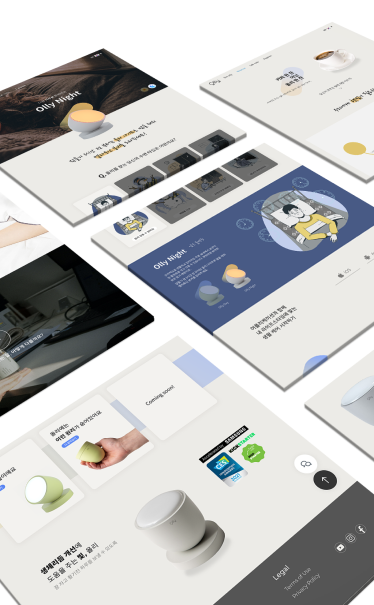
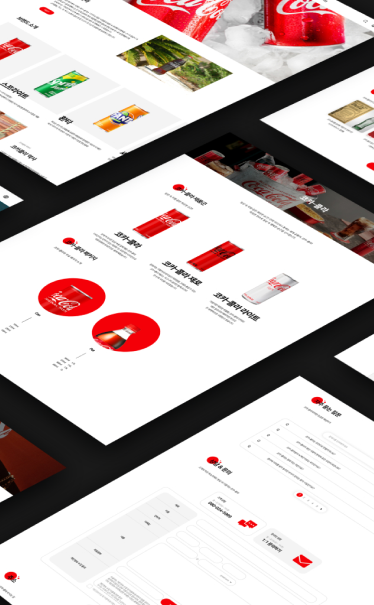
06.21

diff --git a/index.html b/index.html
@@ -81,7 +81,7 @@
         <div class="inner">
           <div class="design-info">
             <p>2024</p>
-            <h2 data-splitting><b>UX</b> designer</h2>
+            <h2><b>UX</b> designer</h2>
             <strong><a href="mailto:k.eunso1027@gmail.com">+ k.eunso1027@gmail.com</a></strong>
           </div>
 
@@ -199,10 +199,10 @@
                       <img src="./img/project-pic-03.png" alt="slide3" /></figure
                   ></a>
                   <div class="slide-info">
-                    <strong class="category">microsite design</strong>
+                    <strong class="category">app design</strong>
                     <div class="project-title">
-                      <h4>COCO microsite design</h4>
-                      <div class="date">2024.03</div>
+                      <h4>what should i do today</h4>
+                      <div class="date">2024.04</div>
                     </div>
                   </div>
                 </div>
@@ -214,10 +214,10 @@
                       <img src="./img/project-pic-04.png" alt="slide4" /></figure
                   ></a>
                   <div class="slide-info">
-                    <strong class="category">ux design</strong>
+                    <strong class="category">microsite design</strong>
                     <div class="project-title">
-                      <h4>haagendazs web redesign</h4>
-                      <div class="date">2024.02</div>
+                      <h4>COCO microsite design</h4>
+                      <div class="date">2024.03</div>
                     </div>
                   </div>
                 </div>
@@ -229,10 +229,10 @@
                       <img src="./img/project-pic-05.png" alt="slide5" /></figure
                   ></a>
                   <div class="slide-info">
-                    <strong class="category">page design</strong>
+                    <strong class="category">ux design</strong>
                     <div class="project-title">
-                      <h4>viage product detail page</h4>
-                      <div class="date">2023.03</div>
+                      <h4>haagendazs web redesign</h4>
+                      <div class="date">2024.02</div>
                     </div>
                   </div>
                 </div>
@@ -246,7 +246,7 @@
                   <div class="slide-info">
                     <strong class="category">page design</strong>
                     <div class="project-title">
-                      <h4>kimpop app detail page</h4>
+                      <h4>viage product detail page</h4>
                       <div class="date">2023.03</div>
                     </div>
                   </div>
@@ -261,8 +261,8 @@
                   <div class="slide-info">
                     <strong class="category">page design</strong>
                     <div class="project-title">
-                      <h4>urban miner product page</h4>
-                      <div class="date">2023.02</div>
+                      <h4>kimpop app detail page</h4>
+                      <div class="date">2023.03</div>
                     </div>
                   </div>
                 </div>
@@ -276,17 +276,32 @@
                   <div class="slide-info">
                     <strong class="category">page design</strong>
                     <div class="project-title">
-                      <h4>festival on app detail page</h4>
-                      <div class="date">2022.12</div>
+                      <h4>urban miner product page</h4>
+                      <div class="date">2023.02</div>
                     </div>
                   </div>
                 </div>
 
                 <!-- Slides9 -->
                 <div class="swiper-slide">
-                  <a href="https://www.behance.net/gallery/154153447/Medicpet_-"
+                  <a href="#"
                     ><figure>
                       <img src="./img/project-pic-09.png" alt="slide9" /></figure
+                  ></a>
+                  <div class="slide-info">
+                    <strong class="category">page design</strong>
+                    <div class="project-title">
+                      <h4>festival on app detail page</h4>
+                      <div class="date">2022.12</div>
+                    </div>
+                  </div>
+                </div>
+
+                <!-- Slides10 -->
+                <div class="swiper-slide">
+                  <a href="https://www.behance.net/gallery/154153447/Medicpet_-"
+                    ><figure>
+                      <img src="./img/project-pic-10.png" alt="slide10" /></figure
                   ></a>
                   <div class="slide-info">
                     <strong class="category">ux design</strong>
@@ -297,11 +312,11 @@
                   </div>
                 </div>
 
-                <!-- Slides10 -->
+                <!-- Slides11 -->
                 <div class="swiper-slide">
                   <a href="https://www.behance.net/gallery/154244789/Cocacola-Korea_Website-Virtual-Renewal-Project"
                     ><figure>
-                      <img src="./img/project-pic-10.png" alt="slide10" /></figure
+                      <img src="./img/project-pic-11.png" alt="slide11" /></figure
                   ></a>
                   <div class="slide-info">
                     <strong class="category">ux design</strong>
@@ -312,11 +327,11 @@
                   </div>
                 </div>
 
-                <!-- Slides11 -->
+                <!-- Slides12 -->
                 <div class="swiper-slide">
                   <a href="https://www.behance.net/gallery/134034159/Luple-Redesign"
                     ><figure>
-                      <img src="./img/project-pic-11.png" alt="slide11" /></figure
+                      <img src="./img/project-pic-12.png" alt="slide12" /></figure
                   ></a>
                   <div class="slide-info">
                     <strong class="category">ux design</strong>
@@ -327,11 +342,11 @@
                   </div>
                 </div>
 
-                <!-- Slides12 -->
+                <!-- Slides13 -->
                 <div class="swiper-slide">
                   <a href="https://www.behance.net/gallery/118584939/AdInCar_Car-AR-Advertising-Platform-Service"
                     ><figure>
-                      <img src="./img/project-pic-12.png" alt="slide12" /></figure
+                      <img src="./img/project-pic-13.png" alt="slide13" /></figure
                   ></a>
                   <div class="slide-info">
                     <strong class="category">service design</strong>
@@ -342,11 +357,11 @@
                   </div>
                 </div>
 
-                <!-- Slides13 -->
+                <!-- Slides14 -->
                 <div class="swiper-slide">
                   <a href="https://www.behance.net/gallery/118422639/Sell-We_-"
                     ><figure>
-                      <img src="./img/project-pic-13.png" alt="slide13" /></figure
+                      <img src="./img/project-pic-14.png" alt="slide14" /></figure
                   ></a>
                   <div class="slide-info">
                     <strong class="category">service design</strong>

diff --git a/js/script.js b/js/script.js
@@ -12,9 +12,6 @@ $(function () {
   tl.from('.go-portfolio', { y: -100, autoAlpha: 0 });
   // e: 애니메이션
 
-  //splitting
-  // Splitting();
-
   // 변수저장
   // AOS.init();
   const $btnTop = $('.btn-top');
@@ -66,10 +63,12 @@ $(function () {
     afterLoad: function (anchorLink, index) {
       if (anchorLink === 'section2') {
         // s: about-ani
+        $('.section2 h2').css('opacity', 1);
         // tl.from('.section2 h2', { y: -100, autoAlpha: 0 });
         // tl.from('.section2 .dashboard', { y: -100, autoAlpha: 0 });
       }
       if (anchorLink === 'section3') {
+        $('.section3 h2').css('opacity', 1);
         // s: project-ani
         // tl.from('.section3 h2', { y: -100, autoAlpha: 0 });
         // tl.from('.autoplay-progress', { y: -100, autoAlpha: 0 });
@@ -78,12 +77,21 @@ $(function () {
       if (anchorLink === 'section4') {
         // s: contact-ani
         // tl.from('.section4 h2', { y: -100, autoAlpha: 0 });
+        // tl.from('.section4 h2', { x: -50, autoAlpha: 0, duration: 1 });
         // section4 영역에 진입하면 탑 버튼 보임
+        $('.section4 h2').css('opacity', 1);
         $btnTop.fadeIn();
       }
 
-      AOS.init();
-      $aniEl.addClass('aos-animate');
+      // AOS.init();
+      // $aniEl.addClass('aos-animate');
+
+      //splitting
+      $('.section h2')
+        .eq(index - 1)
+        .attr('data-splitting', '');
+
+      Splitting();
     },
 
     // 영역을 떠나갈 때
@@ -92,11 +100,14 @@ $(function () {
       if (index === 1) {
       }
       if (index === 2) {
+        // $('.section2 h2').css('opacity', 0);
       }
       if (index === 3) {
+        // $('.section3 h2').css('opacity', 0);
       }
       // 4번 영역을 떠나가거나 마우스 휠을 올렸을 때
       if (index === 4 || direction === 'up') {
+        // $('.section4 h2').css('opacity', 0);
         $btnTop.fadeOut();
       }
       $aniEl.removeClass('aos-animate');
@@ -122,20 +133,12 @@ $(function () {
       type: 'fraction',
     },
 
+    // 원으로 진행률 표시
     on: {
       autoplayTimeLeft(swiper, timeLeft, percentage) {
-        // console.log(timeLeft, percentage);
-        //timeLeft: 남은 시간 (ms)
-        //percentage: 진행 상태를 1~0사이의 값으로 표현
-
-        // 원으로 진행률 표시
         document.querySelector('.autoplay-progress svg').style.setProperty('--progress', 1 - percentage);
-
-        // ceil: 올림, 올림한 값을 정수로 표현
-        // document.querySelector('.autoplay-progress span').textContent = `${Math.ceil(timeLeft / 1000)}s`;
-        // document.querySelector('.autoplay-progress span').textContent = Math.ceil((1 - percentage) * 100) + '%';
-        // 원으로 진행률 표시
       },
+      // 원으로 진행률 표시
     },
   });
 

diff --git a/css/style.css b/css/style.css
@@ -168,6 +168,16 @@
   left: 0;
   transform: translateX(-25%) rotate(-90deg);
 }
+
+.section2 h2 {
+  opacity: 0;
+}
+.section3 h2 {
+  opacity: 0;
+}
+.section4 h2 {
+  opacity: 0;
+}
 /* //e: 공통 부분 */
 
 /* s: Home */
@@ -969,15 +979,16 @@
 /* //e: contact */
 
 /* s: h2 animation */
+
 @keyframes textAni {
   0% {
     opacity: 0;
-    transform: translateY(-50px);
+    transform: translateX(-100px);
   }
 
   100% {
     opacity: 1;
-    transform: translateY(0px);
+    transform: translateX(0px);
   }
 }
 
